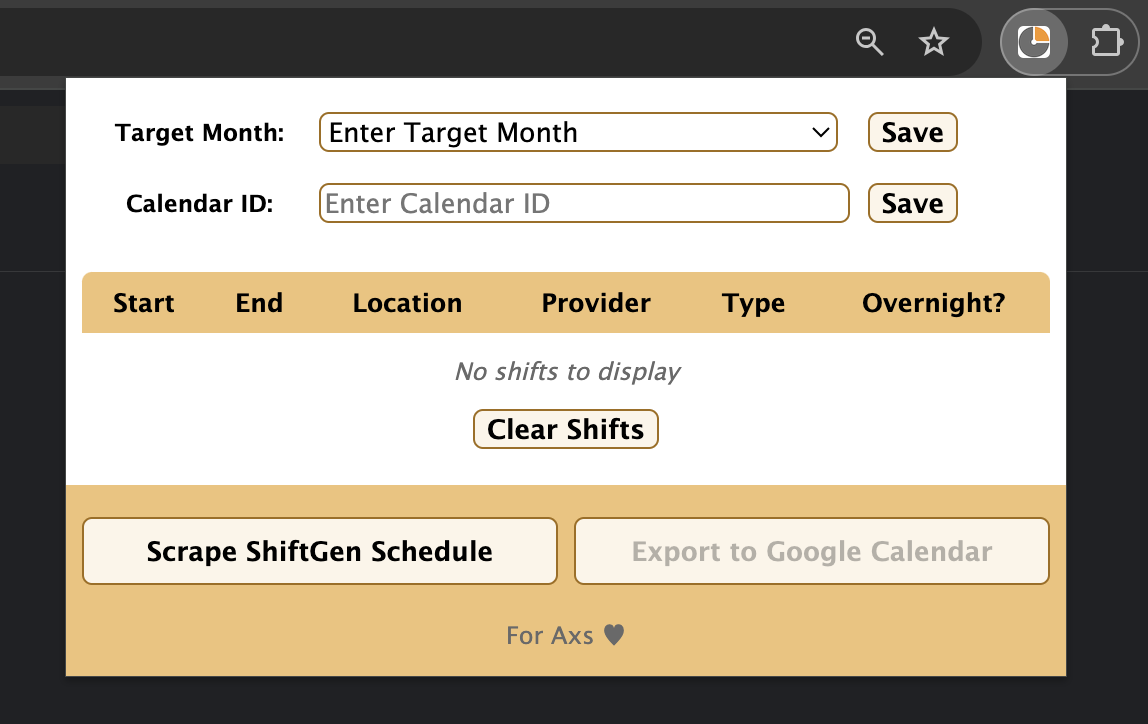
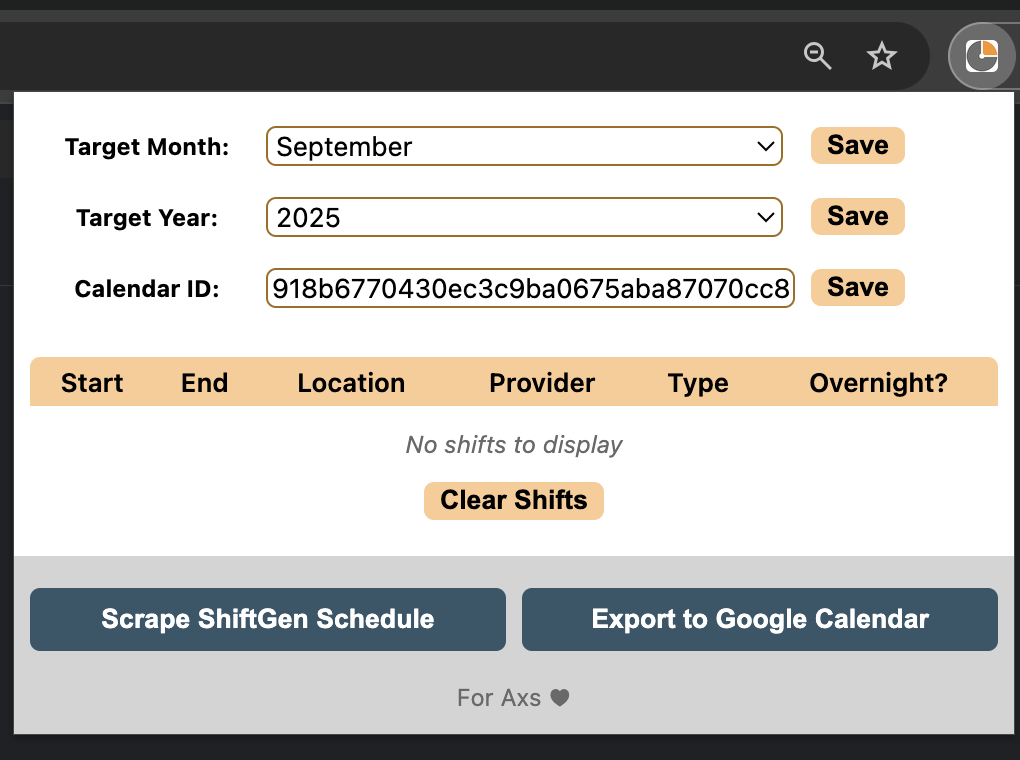
update README

diff --git a/src/shiftgen/TaskManager.js b/src/shiftgen/TaskManager.js
@@ -177,7 +177,7 @@ export class TaskManager {
         type: 'basic',
         iconUrl: '../public/icons/icon_32.png',
         title: 'ShiftGen Schedule Exporter',
-        message: "Completed task workflow",
+        message: "Completed scraping shifts",
         priority: 0
       }); 
 
@@ -266,7 +266,7 @@ export class TaskManager {
    * @param {number} siteId Site ID to change site to. Null if USER is requesting
    *                        a site change to USER to reset the site state.
    */
-  triggerChangeSite(taskId, tabId, siteId=null) {
+   triggerChangeSite(taskId, tabId, siteId=null) {
     let site = ""
     let taskToUpdate = null;
 

diff --git a/README.md b/README.md
@@ -10,16 +10,19 @@ Since this Chrome extension is still in development, users must install this ext
 
 To use this extension, first open the extension's popup and configure the settings.
 
-* Target Month: The month of the current year to be processed
+* Target Month: The month to be processed
+* Target Year: The year to be processed
 * Calendar ID: The Google Calendar ID where the processed shifts will be exported to. To find this value, navigate to the settings page of your Google Calendar, navigate to the "Integrate calendar" subsection, and copy "Calendar ID" value into the extension popup.
 
 <div style="text-align:center">
   <img src="public/images/configure_settings.png" alt="Configure settings" width="600" >
 </div>
 
-After the settings have been configured, login to [https://shiftgen.com](https://shiftgen.com) and click "Scrape ShiftGen Schedule" to gather all shift data and provider information. This process will open new tabs in your browser as the extension navigates to different pages within ShiftGen. When you get a popup saying "Done processing shifts. Navigate to ShiftGen Popup to export to Google Calendar!" the processing is complete and you may close any open ShiftGen tabs. 
+After the settings have been configured, login to [https://shiftgen.com](https://shiftgen.com) and click "Scrape ShiftGen Schedule" to gather all shift data and provider information. This process will open new tabs in your browser as the extension navigates to different pages within ShiftGen. When you get a notification saying "Completed scraping shifts" the processing is complete and you may close any open ShiftGen tabs. 
 
-<!-- TODO: add picture of popup -->
+<div style="text-align:center">
+  <img src="public/images/completed_notification.png" alt="Completed notification" width="600" >
+</div>
 
 Open the extension popup to examine the processed shift data. To export the data to Google Calendar, simply click the "Export to Google Calendar" button.
 
@@ -27,80 +30,8 @@ Open the extension popup to examine the processed shift data. To export the data
   <img src="public/images/examine_shifts.png" alt="Examine shifts" width="600" >
 </div>
 
-## Known Bugs
+## Workflow
 
-* On slow computers, shift processing will fail because web scraping takes too long. A better messaging architecture to indicate user/provider schedule scraping complete should be implemented to avoid moving onto the next schedule before data has been saved to the local storage. One workaround is to close all Chrome tabs other than https://shiftgen.com when processing shifts.
-* ShiftGen recently updated their UI in May 2025 which deprecates this codebase. A refactor is required to work with their new page structure and navigation.
-
-<!-- ## Automated Scraping Process
-1. Click "Scrape" button in popup, sets scraping flag to true
-2. popup opens a new tab at [https://www.shiftgen.com/member/schedule](https://www.shiftgen.com/member/schedule), and saves TAB_ID
-3. Submit POST request to change site to USER
-```html
-<form action="/member/change_selected_site" id="site_change_form" method="post">
-   <select id="site_id" name="site_id"><option value="83">CHOC Scribe</option>
-   <option value="84">St Joseph/CHOC MLP</option>
-   <option value="80" selected="selected">St Joseph/CHOC Physician</option></select>
-</form>
-```
-1. Page redirects to [https://www.shiftgen.com/member/multi_site_schedule](https://www.shiftgen.com/member/multi_site_schedule)
-2. In content scripts for [https://www.shiftgen.com/member/multi_site_schedule](https://www.shiftgen.com/member/multi_site_schedule), check scraping flag and if true redirect to [https://www.shiftgen.com/member/schedule](https://www.shiftgen.com/member/schedule)
-3. Find table with thead containing the selected Month, set "My Schedule Only" input to true, and click "Create Print Version"
-```html
-<div class="col-md-6">
-  <form action="/member/schedule" method="post">
-    <input id="_id" name="[id]" type="hidden" value="14544">
-    <table class="schedule" cellpadding="0">
-      <thead>
-        <tr>
-          <th colspan="2" class="text-left">
-            <h2><a href="/member/schedule/14544">March 2025 - CHOC</a></h2>
-          </th>
-        </tr>
-      </thead>
-      <tbody>
-        <tr>
-          <td>
-            <label for="start_date_14544" class="dimmed">Starting</label>
-            <input class="input-lg col-md-11" id="start_date_14544" name="start_date_14544" type="text" value="March 01, 2025"> <img alt="Calendar" class="calendar_date_select_popup_icon" onclick="new CalendarDateSelect( $(this).previous(), {embedded:false, year_range:[2024, 2026]} );" src="/images/calendar_date_select/calendar.gif?1597158197" style="border:0px; cursor:pointer;">
-          </td>
-          <td>
-            <label for="end_date_14544" class="dimmed">Ending</label>
-            <input class="input-lg col-md-11" id="end_date_14544" name="end_date_14544" type="text" value="March 31, 2025"> <img alt="Calendar" class="calendar_date_select_popup_icon" onclick="new CalendarDateSelect( $(this).previous(), {embedded:false, year_range:[2024, 2026]} );" src="/images/calendar_date_select/calendar.gif?1597158197" style="border:0px; cursor:pointer;">
-          </td>
-        </tr>
-        <tr>
-          <td width="230">
-            <p class="dimmed">Shifts to Print</p>
-            <ul class="unstyled">
-              <li>
-                <label><input type="checkbox" name="print_only_my_schedule"> My Schedule Only</label>
-              </li>
-              <li>
-                <label><input type="checkbox" name="shift_groups[]" value="214" checked=""> Scribe</label>
-              </li>
-            </ul>
-          </td>
-          <td>
-            <p class="dimmed">Edit</p>
-            <ul>
-              <li><a href="/member/record_overtime_for_schedule?schedule_id=14544&amp;worker_id=18642">Modify Hours Worked</a></li>
-            </ul>
-          </td>
-        </tr>
-        <tr>
-          <td class="text-right" colspan="2">
-            <br>
-            <input class="btn" id="schedule_submit" name="commit" type="submit" value="Create Print Version">
-          </td>
-        </tr>
-      </tbody>
-    </table>
-  </form>
+<div style="text-align:center">
+  <img src="public/images/workflow.png" alt="Scraping workflow" width="600" >
 </div>
-```
-
-1. Page redirects to USER print view
-2. Scrape page, then redirect to [https://www.shiftgen.com/member/schedule](https://www.shiftgen.com/member/schedule) -->
-
-https://stackoverflow.com/questions/26359206/tasks-automation-with-chrome-extensions
